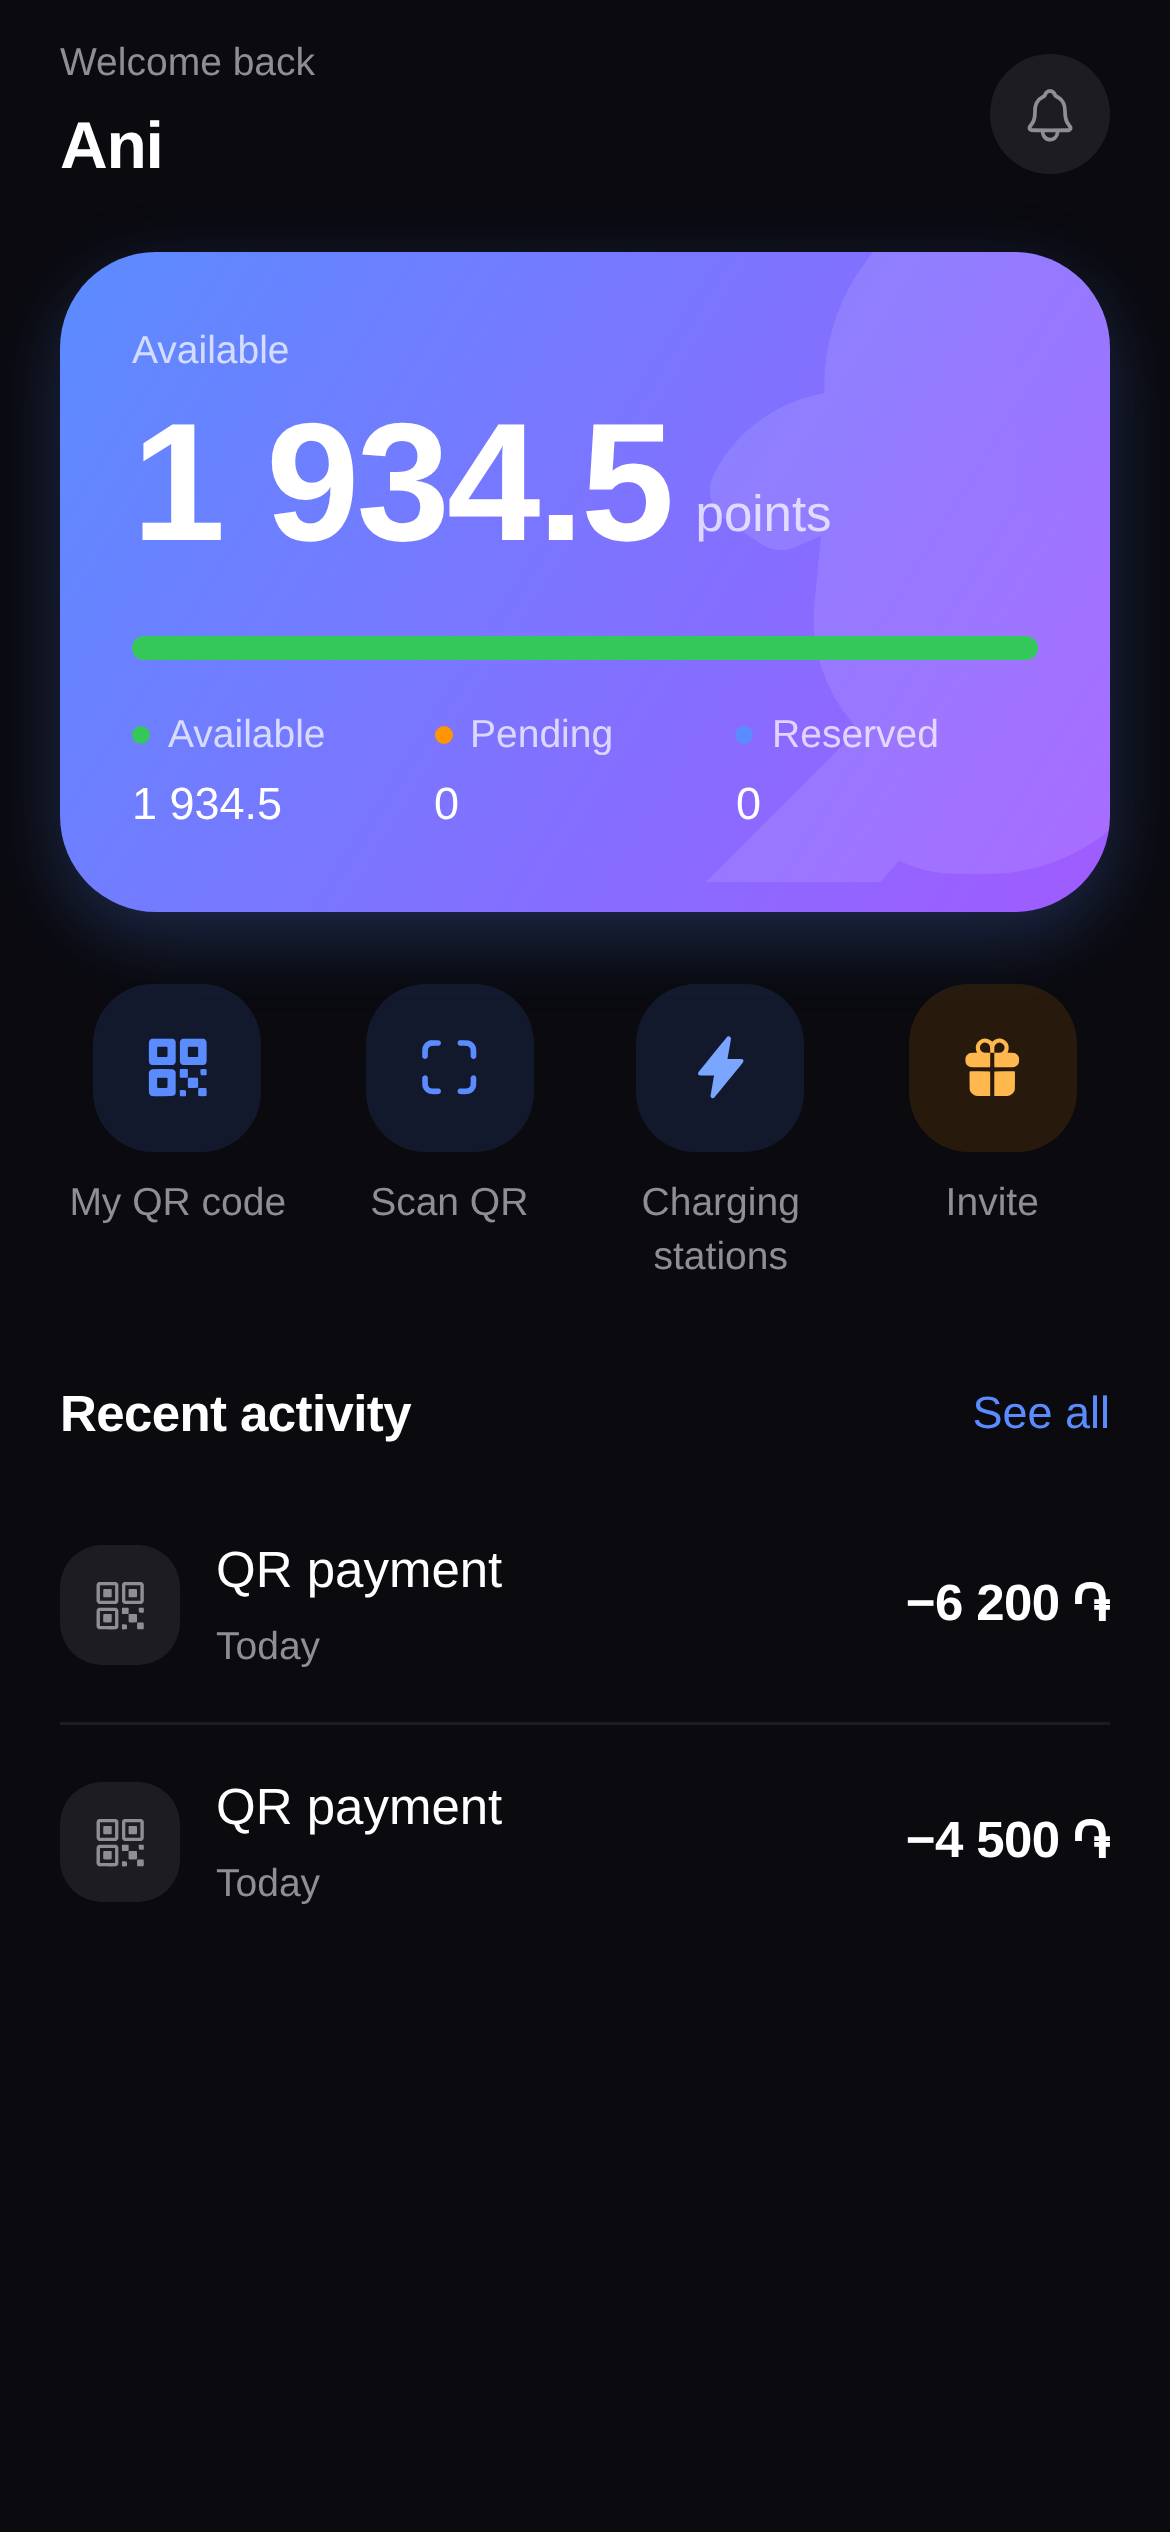
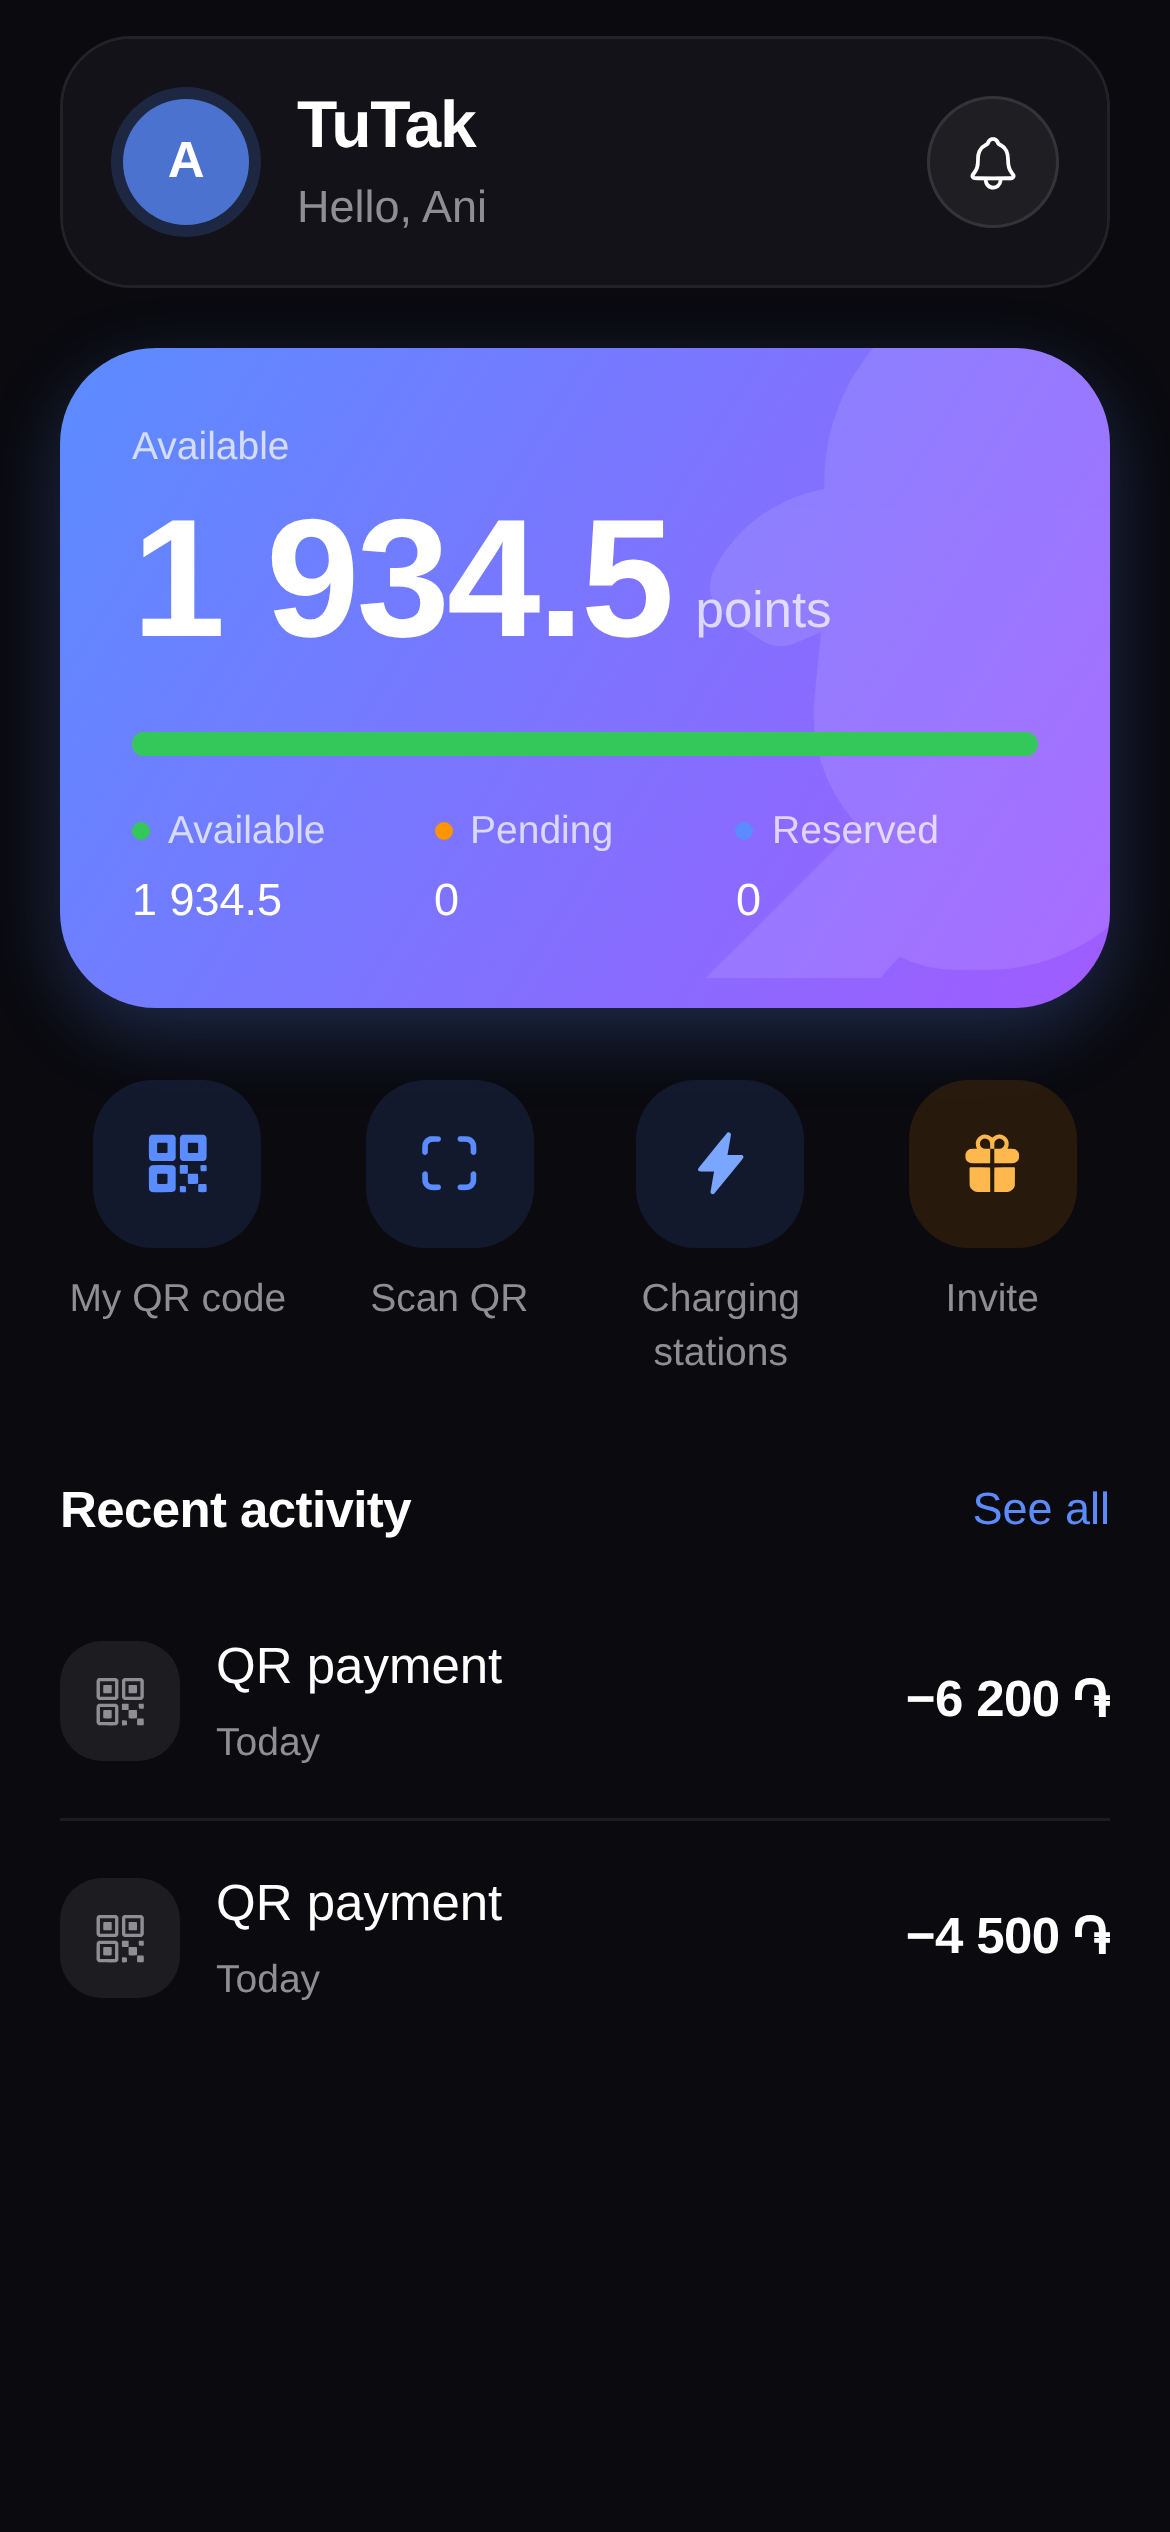
feat(mobile): adopt the prototype's newest home header
The complete archive arrived (four parts; the first attempt was missing part
three, and the salvaged copy stopped at the last commit rather than the working
tree). Compared it against what was ported: the design system is byte-identical
once line endings are normalised — palette, gradients, radii, shadows, spacing
and type all match, as do GlassCard, GradientButton, PremiumInput, StatCard,
MenuCard and StationCard. So the port stands.

Five files had moved on, and one of them is a real design decision worth
having: the home header became a glass bar carrying a glowing avatar, the
product name, the greeting and the notification bell, replacing a plain
two-line greeting.

Built as `HomeHeader` in our own component layer rather than copied in. Two
details from the original are load-bearing and easy to lose:

- The glow belongs to a translucent ring *around* the avatar disc, not to the
  disc. A shadow on the disc itself makes a blurry disc; on a ring it makes a
  lit one.
- The brand line sits above the greeting. On a screen whose job is to show a
  balance, someone already knows their own name — what they occasionally want
  is confirmation of which app they are in.

`home.greetingNamed` added to all three locales, so the greeting reads "Hello,
Ani" rather than a label stacked over a name.

Also from reviewing the newest source: the charging screen's connector rows are
neutral glass with a blue start control, instead of green borders on every row.
[…]

diff --git a/apps/mobile/src/presentation/components/HomeHeader.tsx b/apps/mobile/src/presentation/components/HomeHeader.tsx
@@ -1,0 +1,124 @@
+import React from 'react';
+import { Platform, Pressable, StyleSheet, Text, View } from 'react-native';
+import { BlurView } from 'expo-blur';
+import { Ionicons } from '@expo/vector-icons';
+import { useTranslation } from 'react-i18next';
+import { useTheme } from '../../app/theme/ThemeProvider';
+
+/**
+ * The home screen's glass header bar.
+ *
+ * A single pane holding the product's name, who is signed in, and the way to
+ * notifications. Two details do most of the work and both are easy to drop:
+ *
+ * The avatar is a solid blue disc inside a wider, translucent ring, and the
+ * *ring* is what carries the glow. Putting the shadow on the disc itself
+ * makes it a blurry disc; putting it on a ring around the disc makes the
+ * disc look lit. It is the only element on the home screen that glows this
+ * strongly, which is what makes it read as the user's own corner of the app.
+ *
+ * The brand line sits above the greeting rather than below it. On a screen
+ * whose whole job is to show a balance, the person already knows their own
+ * name — what they occasionally need is confirmation of which app they are
+ * looking at, and it costs one line to say so.
+ */
+export function HomeHeader({
+  firstName,
+  onNotifications,
+}: {
+  firstName?: string;
+  onNotifications: () => void;
+}) {
+  const { color, space, radius, text, glass, premium } = useTheme();
+  const { t } = useTranslation();
+
+  const initials = (firstName ?? '').trim().slice(0, 1).toUpperCase();
+
+  return (
+    <View style={[styles.wrapper, { borderRadius: radius.xl, borderColor: glass.border }]}>
+      <GlassBar>
+        <View style={[styles.row, { paddingHorizontal: space[4] }]}>
+          <View style={styles.identity}>
+            {/* Ring first, disc inside it — see the note above. */}
+            <View
+              style={[
+                styles.ring,
+                {
+                  backgroundColor: premium.brand.primary + '2E', // ~18% alpha
+                  shadowColor: premium.brand.primary,
+                },
+              ]}
+            >
+              <View style={[styles.avatar, { backgroundColor: premium.brand.primary + 'BF' }]}>
+                {initials ? (
+                  <Text style={[text.headline, { color: color.textInverse }]}>{initials}</Text>
+                ) : (
+                  <Ionicons name="person" size={20} color={color.textInverse} />
+                )}
+              </View>
+            </View>
+
+            <View style={{ marginLeft: space[3] }}>
+              <Text style={[text.title, { color: color.textPrimary }]}>TuTak</Text>
+              <Text style={[text.label, { color: color.textSecondary, marginTop: 2 }]}>
+                {firstName ? t('home.greetingNamed', { name: firstName }) : t('home.greeting')}
+              </Text>
+            </View>
+          </View>
+
+          <Pressable
+            accessibilityRole="button"
+            accessibilityLabel={t('notifications.title')}
+            onPress={onNotifications}
+            hitSlop={8}
+            style={({ pressed }) => [
+              styles.bell,
+              {
+                backgroundColor: glass.background,
+                borderColor: glass.border,
+                borderRadius: radius.full,
+                opacity: pressed ? 0.7 : 1,
+              },
+            ]}
+          >
+            <Ionicons name="notifications-outline" size={20} color={color.textPrimary} />
+          </Pressable>
+        </View>
+      </GlassBar>
+    </View>
+  );
+}
+
+/** Blurred on iOS, flat translucent on Android — same reasoning as `Surface`. */
+function GlassBar({ children }: { children: React.ReactNode }) {
+  const { premium } = useTheme();
+
+  if (Platform.OS === 'ios') {
+    return (
+      <BlurView intensity={65} tint="dark" style={styles.bar}>
+        {children}
+      </BlurView>
+    );
+  }
+  return <View style={[styles.bar, { backgroundColor: premium.card.background }]}>{children}</View>;
+}
+
+const styles = StyleSheet.create({
+  wrapper: { borderWidth: StyleSheet.hairlineWidth, overflow: 'hidden' },
+  bar: { height: 82, justifyContent: 'center' },
+  row: { flexDirection: 'row', alignItems: 'center', justifyContent: 'space-between', flex: 1 },
+  identity: { flexDirection: 'row', alignItems: 'center', flexShrink: 1 },
+  ring: {
+    width: 50,
+    height: 50,
+    borderRadius: 25,
+    alignItems: 'center',
+    justifyContent: 'center',
+    shadowOpacity: 0.8,
+    shadowRadius: 15,
+    shadowOffset: { width: 0, height: 0 },
+    elevation: 8,
+  },
+  avatar: { width: 42, height: 42, borderRadius: 21, alignItems: 'center', justifyContent: 'center' },
+  bell: { width: 44, height: 44, alignItems: 'center', justifyContent: 'center', borderWidth: 1 },
+});

diff --git a/apps/mobile/src/presentation/screens/home/HomeScreen.tsx b/apps/mobile/src/presentation/screens/home/HomeScreen.tsx
@@ -10,6 +10,7 @@ import type { NativeStackScreenProps } from '@react-navigation/native-stack';
 import { Ionicons } from '@expo/vector-icons';
 import { useTheme } from '../../../app/theme/ThemeProvider';
 import { BalanceCard } from '../../components/BalanceCard';
+import { HomeHeader } from '../../components/HomeHeader';
 import { QuickAction } from '../../components/QuickAction';
 import { SectionHeader } from '../../components/SectionHeader';
 import { ListRow } from '../../components/ListRow';
@@ -49,22 +50,17 @@ export function HomeScreen({ navigation }: Props) {
         showsVerticalScrollIndicator={false}
         contentContainerStyle={{ paddingBottom: layout.tabBarHeight + space[6] }}
       >
-        {/* Greeting — quiet, so the balance card is the first thing seen. */}
         <View
-          style={[
-            styles.greeting,
-            { paddingHorizontal: layout.screenPaddingX, paddingTop: space[3], paddingBottom: space[5] },
-          ]}
+          style={{
+            paddingHorizontal: layout.screenPaddingX,
+            paddingTop: space[3],
+            paddingBottom: space[5],
+          }}
         >
-          <View style={styles.flex}>
-            <Text style={[text.caption, { color: color.textSecondary }]}>
-              {t('home.greeting')}
-            </Text>
-            <Text style={[text.title, { color: color.textPrimary, marginTop: space[1] }]}>
-              {user?.firstName ?? ''}
-            </Text>
-          </View>
-          <NotificationBell onPress={() => navigation.navigate('Notifications')} />
+          <HomeHeader
+            firstName={user?.firstName}
+            onNotifications={() => navigation.navigate('Notifications')}
+          />
         </View>
 
         <View style={{ paddingHorizontal: layout.screenPaddingX }}>
@@ -175,27 +171,11 @@ function TransactionIcon({ type }: { type: string }) {
   );
 }
 
-function NotificationBell({ onPress }: { onPress: () => void }) {
-  const { color, radius } = useTheme();
-  return (
-    <View
-      style={[
-        styles.bell,
-        { backgroundColor: color.surfaceSunken, borderRadius: radius.full },
-      ]}
-      onTouchEnd={onPress}
-    >
-      <Ionicons name="notifications-outline" size={20} color={color.textSecondary} />
-    </View>
-  );
-}
 
 const styles = StyleSheet.create({
   flex: { flex: 1 },
-  greeting: { flexDirection: 'row', alignItems: 'center' },
   actions: { flexDirection: 'row' },
   txIcon: { width: 40, height: 40, alignItems: 'center', justifyContent: 'center' },
-  bell: { width: 40, height: 40, alignItems: 'center', justifyContent: 'center' },
   skeletonRow: { flexDirection: 'row', alignItems: 'center' },
   verifyBanner: {},
 });
